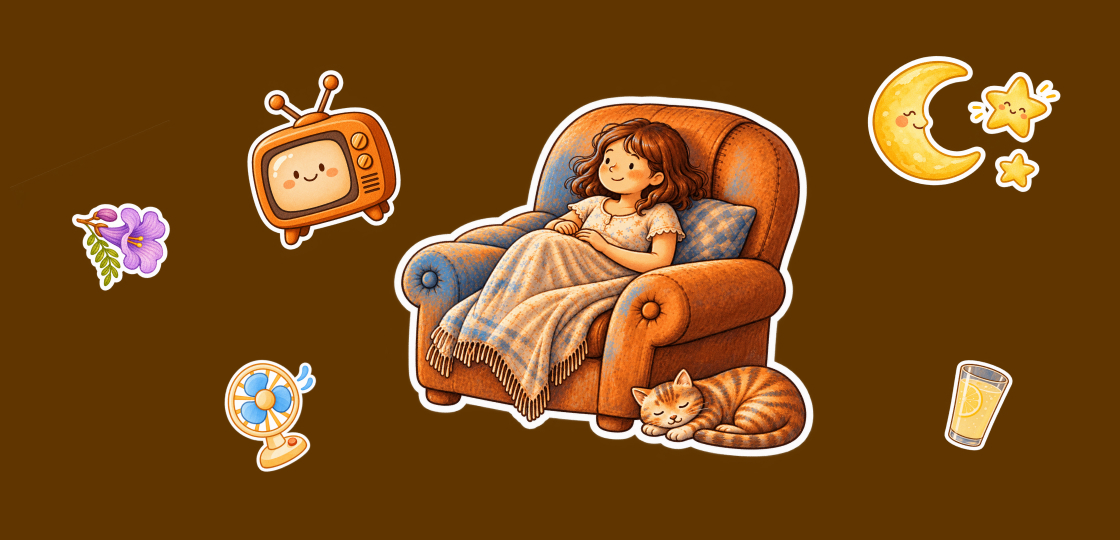
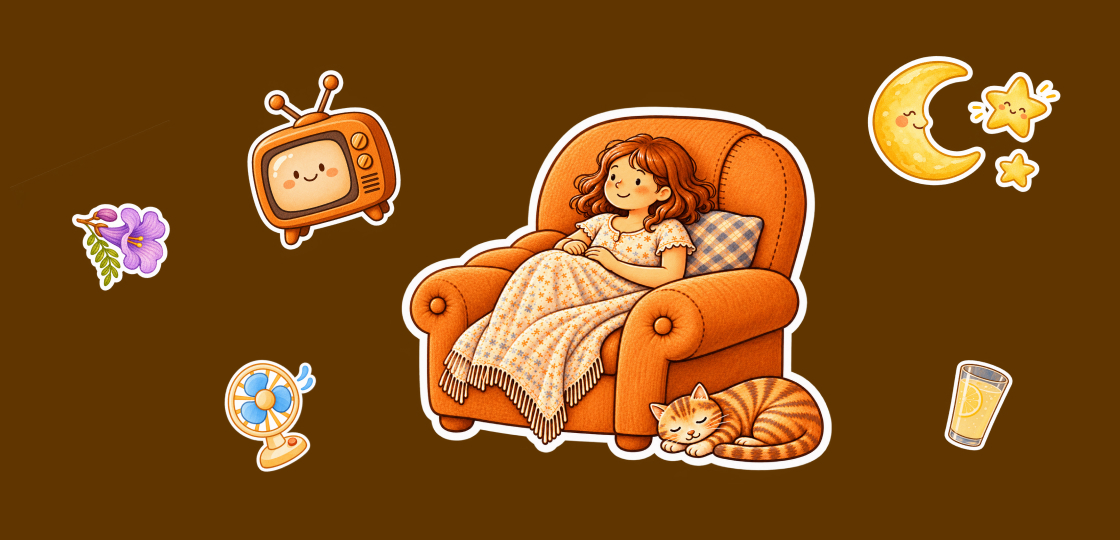
Style the project card

Changed region(s): [[0.3438, 0.1778, 0.75, 0.8889]]

diff --git a/components/ProjectCard.tsx b/components/ProjectCard.tsx
@@ -4,7 +4,7 @@ import styles from "./ProjectCard.module.css";
 
 export function ProjectCard({ project }: { project: Project }) {
   return (
-    <article>
+    <article className={styles.project}>
       <a href={project.liveUrl} className={styles.coverLink}>
         <Image
           src={project.cover.src}
@@ -15,9 +15,9 @@ export function ProjectCard({ project }: { project: Project }) {
           className={styles.cover}
         />
       </a>
-      <h3>{project.name}:</h3>
-      <p>{project.tagline}</p>
-      <ul>
+      <h3 className={styles.name}>{project.name}: </h3>
+      <p className={styles.tagline}>{project.tagline}</p>
+      <ul className={styles.links}>
         <li>
           <a href={project.liveUrl}>
             Try it

diff --git a/components/ProjectCard.module.css b/components/ProjectCard.module.css
@@ -1,3 +1,7 @@
+.project {
+  border-bottom: 1px dotted var(--color-brown);
+}
+
 .cover {
   display: block;
   width: 100%;
@@ -5,11 +9,37 @@
   filter: grayscale(1);
   transition: filter 0.3s;
   border-radius: 1px;
+  margin-block: var(--space-4);
 }
 
 .coverLink:hover .cover,
 .coverLink:focus-visible .cover {
   filter: none;
+}
+
+.name,
+.tagline {
+  display: inline;
+}
+
+.name {
+  font-weight: 900;
+  font-size: var(--text-body);
+}
+
+.links {
+  display: flex;
+  list-style: none;
+  padding: 0;
+  gap: var(--space-3);
+  margin-top: var(--space-1);
+  margin-bottom: var(--space-4);
+}
+
+.links li + li::before {
+  content: "/" / "";
+  margin-right: var(--space-3);
+  color: var(--color-brown);
 }
 
 @media (hover: none) {
